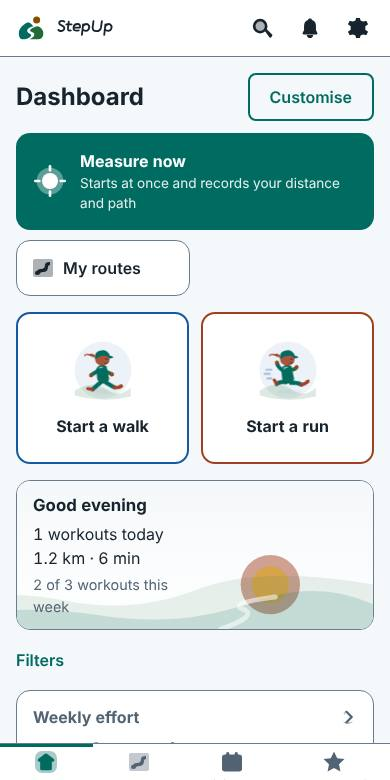
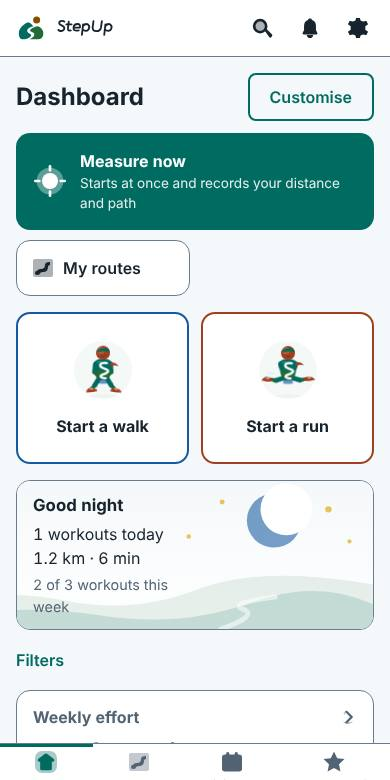
0.20.0: Trail athlete in the app and the guide, guide screenshots regenerated
Claude-Session: https://claude.ai/code/session_015MgUfxYvuaf2H4JGRA2gxD

diff --git a/web/sw.js b/web/sw.js
@@ -1,5 +1,5 @@
 // Offline-first service worker. VERSION is kept equal to version.json by scripts/bump-version.mjs (a unit test enforces it).
-const VERSION = '0.19.0';
+const VERSION = '0.20.0';
 const CACHE = `stepup-${VERSION}`;
 const SHELL = ['./', 'index.html', 'manifest.webmanifest', 'version.json', 'icon.svg', 'css/packs.css', 'css/app.css',
   'js/app.js', 'js/routePlan.js', 'js/planner.js', 'js/planApi.js', 'js/ui/mapScreen.js', 'js/ui/planner.js', 'js/theme-boot.js', 'js/util.js', 'js/i18n.js', 'js/native.js', 'js/icons.js', 'js/brand.js', 'js/brandData.js', 'js/iconData.js', 'js/geo.js', 'js/workout.js', 'js/metronome.js', 'js/cadence.js', 'js/audio.js', 'js/format.js', 'js/store.js', 'js/ui/home.js', 'js/plan.js', 'js/indicators.js', 'js/appVersion.js', 'js/art.js', 'js/voice.js', 'js/records.js', 'js/facts.js', 'js/actions.js', 'js/guide.js', 'js/strings08.js', 'js/strings09.js', 'js/figureData.js', 'js/ui/guide.js', 'art/workout/banner-afternoon-dark.svg', 'art/workout/banner-afternoon-light.svg', 'art/workout/banner-evening-dark.svg', 'art/workout/banner-evening-light.svg', 'art/workout/banner-morning-dark.svg', 'art/workout/banner-morning-light.svg', 'art/workout/banner-night-dark.svg', 'art/workout/banner-night-light.svg', 'art/workout/card-forest-dark.svg', 'art/workout/card-forest-light.svg', 'art/workout/card-ocean-dark.svg', 'art/workout/card-ocean-light.svg', 'art/workout/card-sunrise-dark.svg', 'art/workout/card-sunrise-light.svg', 'art/workout/count-1-dark.svg', 'art/workout/count-1-light.svg', 'art/workout/count-2-dark.svg', 'art/workout/count-2-light.svg', 'art/workout/count-3-dark.svg', 'art/workout/count-3-light.svg', 'art/workout/count-4-dark.svg', 'art/workout/count-4-light.svg', 'art/workout/count-5-dark.svg', 'art/workout/count-5-light.svg', 'art/workout/count-go-dark.svg', 'art/workout/count-go-light.svg', 'art/workout/hint-double-tap-dark.svg', 'art/workout/hint-double-tap-light.svg', 'art/workout/hint-volume-keys-dark.svg', 'art/workout/hint-volume-keys-light.svg', 'js/ui/workoutShare.js', 'js/shareCard.js', 'js/metrics.js', 'js/gpx.js', 'js/daypart.js', 'js/challenge.js', 'art/celebrate/avatar-frame-dark.svg', 'art/celebrate/avatar-frame-light.svg', 'art/celebrate/confetti-circle-dark.svg', 'art/celebrate/confetti-circle-light.svg', 'art/celebrate/confetti-curl-dark.svg', 'art/celebrate/confetti-curl-light.svg', 'art/celebrate/confetti-rectangle-dark.svg', 'art/celebrate/confetti-rectangle-light.svg', 'art/celebrate/confetti-star-dark.svg', 'art/celebrate/confetti-star-light.svg', 'art/celebrate/confetti-triangle-dark.svg', 'art/celebrate/confetti-triangle-light.svg', 'art/celebrate/distance-record-dark.svg', 'art/celebrate/distance-record-light.svg', 'art/celebrate/fastest-kilometre-dark.svg', 'art/celebrate/fastest-kilometre-light.svg', 'art/celebrate/forest-dark.svg', 'art/celebrate/forest-light.svg', 'art/celebrate/laurel-dark.svg', 'art/celebrate/laurel-light.svg', 'art/celebrate/longest-streak-dark.svg', 'art/celebrate/longest-streak-light.svg', 'art/celebrate/medal-dark.svg', 'art/celebrate/medal-light.svg', 'art/celebrate/most-workouts-week-dark.svg', 'art/celebrate/most-workouts-week-light.svg', 'art/celebrate/ocean-dark.svg', 'art/celebrate/ocean-light.svg', 'art/celebrate/pace-record-dark.svg', 'art/celebrate/pace-record-light.svg', 'art/celebrate/podium-floor-dark.svg', 'art/celebrate/podium-floor-light.svg', 'art/celebrate/podium-steps-dark.svg', 'art/celebrate/podium-steps-light.svg', 'art/celebrate/rays-dark.svg', 'art/celebrate/rays-light.svg', 'art/celebrate/ribbon-dark.svg', 'art/celebrate/ribbon-light.svg', 'art/celebrate/sunrise-dark.svg', 'art/celebrate/sunrise-light.svg', 'art/celebrate/trophy-dark.svg', 'art/celebrate/trophy-light.svg', 'js/podiumCard.js', 'js/ui/podium.js', 'js/mapView.js', 'js/ui/maptiles.js', 'js/backup.js', 'js/ui/backup.js', 'art/badges/almost-distance-dark.svg', 'art/badges/almost-distance-light.svg', 'art/badges/almost-record-dark.svg', 'art/badges/almost-record-light.svg', 'art/badges/faster-last-dark.svg', 'art/badges/faster-last-light.svg', 'art/badges/fastest-km-dark.svg', 'art/badges/fastest-km-light.svg', 'art/badges/new-record-dark.svg', 'art/badges/new-record-light.svg', 'art/badges/passed-distance-dark.svg', 'art/badges/passed-distance-light.svg', 'art/onboarding/caught-up-dark.svg', 'art/onboarding/caught-up-light.svg', 'art/onboarding/no-plan-dark.svg', 'art/onboarding/no-plan-light.svg', 'art/onboarding/no-routes-dark.svg', 'art/onboarding/no-routes-light.svg', 'art/onboarding/no-workouts-dark.svg', 'art/onboarding/no-workouts-light.svg', 'art/onboarding/offline-dark.svg', 'art/onboarding/offline-light.svg', 'art/onboarding/welcome-dark.svg', 'art/onboarding/welcome-light.svg', 'art/weather/clear-dark.svg', 'art/weather/clear-light.svg', 'art/weather/cloudy-dark.svg', 'art/weather/cloudy-light.svg', 'art/weather/cold-dark.svg', 'art/weather/cold-light.svg', 'art/weather/hot-dark.svg', 'art/weather/hot-light.svg', 'art/weather/rain-dark.svg', 'art/weather/rain-light.svg', 'art/weather/windy-dark.svg', 'art/weather/windy-light.svg', 'js/update.js', 'js/strings07.js', 'js/ui/about.js', 'js/strings06.js', 'js/ui/plan.js', 'js/schedule.js', 'js/widgetData.js', 'js/syncNative.js', 'js/strings05.js', 'js/route.js', 'js/routeReco.js', 'js/strings04.js', 'js/ui/routes.js', 'js/ui/livemap.js', 'js/forecast.js', 'js/reco.js', 'js/weatherApi.js', 'js/strings03.js', 'js/ui/reco.js', 'js/stats.js', 'js/steps.js', 'js/effort.js', 'js/reminders.js', 'js/alerts.js', 'js/search.js', 'js/charts.js', 'js/reminderLoop.js', 'js/strings02.js', 'js/ui/dashboard.js', 'js/ui/alerts.js', 'js/ui/search.js', 'js/ui/notify.js', 'js/ui/settings.js', 'js/ui/history.js', 'js/ui/workout.js', 'js/ui/rhythm.js',

diff --git a/web/js/appVersion.js b/web/js/appVersion.js
@@ -1,2 +1,2 @@
 // The version of the code that is running (kept equal to version.json by scripts/bump-version.mjs; a unit test enforces it).
-export const APP_VERSION = '0.19.0';
+export const APP_VERSION = '0.20.0';

diff --git a/docs/CONTEXT.md b/docs/CONTEXT.md
@@ -6,8 +6,8 @@ Read this first in a new session. It says what the product is, where everything 
 **StepUp** (repo `ohadsam/distance_analyzer`): a walking and running tracker. One vanilla-JS web app (`web/`, no build step, no runtime dependencies) shipped as a **PWA** (GitHub Pages) and as a thin **Android WebView app** (`android/`, same `web/` folder as assets). Hebrew (RTL) is the default, English is chosen in Settings. No server, no account; data stays on the device. Branch `main` is the primary branch.
 Owner's standing rules live in `.claude/skills/release-checklist/SKILL.md` (section 0). Requests and their status: `docs/REQUESTS.md`. Plan: `docs/ROADMAP.md`.
 
-## Status (0.19.0)
-Done: **redesigned single-colour icons, Trail (the logo-born companion character, 8 poses) on the start cards / welcome / summary, live speed gauge, active navigation icons, calm-animations switch (0.19.0)**, **user guide (interactive tour with screenshots), search over actions / your data / the guide, a clear live map, a quiet first-run home, map screen with distance measuring, route planner by address and distance (0.18.0)**, **workout visual kit: banners, workout cards, countdown numerals, hints, number icons (0.17.0)**, **choose your workout numbers, day card, history sort/records/GPX/share picture, hands-free, countdown, wide layout (0.16.0)**, **new minimal workout screen, background voice, stop hint, sunlight mode, weekly challenge + Sunday summary, kit podium (0.15.0)**, **opt-in street map, battery optimisation, record celebration with victory photo (0.14.0)**, **backup/restore, week-bars widget, monthly summary (0.13.0)**, **rhythm coach and charts in the kit's look, folded filters, spoken cues (0.12.0)**, **kit art integrated: empty states, weather banner, indication badges, widget backgrounds, Android 12 splash (0.11.0)**, **update check, newest-APK download and share from inside the app (0.10.0)**, **two more Android widgets (last workout, next session) with a designed background (0.9.1, launcher verification pending)**, **bottom navigation, collapsible settings, lighter first dashboard, welcome card (0.9.0)**, **live in-workout indications (records, last time, faster km - 0.8.1)**, **training plans (build, week view, auto-match, gentle catch-up, reminders - 0.8.1)**, Android home-screen widgets (steps, weekly effort, measure now - 0.7.0, launcher verification pending)**, Android background (screen-off tracking, all-day steps, notifications when closed - 0.6.0, real-device verification pending)**, quick actions, routes (save, recognise, progress, suggestions, one-time, follow with ghost), tile-less live map (0.5.0)**, recommendations by weather and routine (0.4.0, opt-in network)**, workout mode (GPS distance/pace/splits, pause, lock, resume), smart rhythm coach (metronome + breathing guide), history, design foundation + StepUp brand, effort bar by age and history with deviation alerts, quality-weighted steps, dashboard (customisable widgets, filters, drill-down), alerts inbox, global search, reminders (fixed + smart nudges, while the app is open), manual weather per workout with weather-aware stats.
+## Status (0.20.0)
+Done: **Trail as an athlete (kit V3) on the start cards, welcome, summary and the user guide (0.20.0)**, **redesigned single-colour icons, Trail (the logo-born companion character, 8 poses) on the start cards / welcome / summary, live speed gauge, active navigation icons, calm-animations switch (0.19.0)**, **user guide (interactive tour with screenshots), search over actions / your data / the guide, a clear live map, a quiet first-run home, map screen with distance measuring, route planner by address and distance (0.18.0)**, **workout visual kit: banners, workout cards, countdown numerals, hints, number icons (0.17.0)**, **choose your workout numbers, day card, history sort/records/GPX/share picture, hands-free, countdown, wide layout (0.16.0)**, **new minimal workout screen, background voice, stop hint, sunlight mode, weekly challenge + Sunday summary, kit podium (0.15.0)**, **opt-in street map, battery optimisation, record celebration with victory photo (0.14.0)**, **backup/restore, week-bars widget, monthly summary (0.13.0)**, **rhythm coach and charts in the kit's look, folded filters, spoken cues (0.12.0)**, **kit art integrated: empty states, weather banner, indication badges, widget backgrounds, Android 12 splash (0.11.0)**, **update check, newest-APK download and share from inside the app (0.10.0)**, **two more Android widgets (last workout, next session) with a designed background (0.9.1, launcher verification pending)**, **bottom navigation, collapsible settings, lighter first dashboard, welcome card (0.9.0)**, **live in-workout indications (records, last time, faster km - 0.8.1)**, **training plans (build, week view, auto-match, gentle catch-up, reminders - 0.8.1)**, Android home-screen widgets (steps, weekly effort, measure now - 0.7.0, launcher verification pending)**, Android background (screen-off tracking, all-day steps, notifications when closed - 0.6.0, real-device verification pending)**, quick actions, routes (save, recognise, progress, suggestions, one-time, follow with ghost), tile-less live map (0.5.0)**, recommendations by weather and routine (0.4.0, opt-in network)**, workout mode (GPS distance/pace/splits, pause, lock, resume), smart rhythm coach (metronome + breathing guide), history, design foundation + StepUp brand, effort bar by age and history with deviation alerts, quality-weighted steps, dashboard (customisable widgets, filters, drill-down), alerts inbox, global search, reminders (fixed + smart nudges, while the app is open), manual weather per workout with weather-aware stats.
 Not done / known limits: the smart "no movement" nudge works only while the app is open; Android background features are verified only by a stand-in bridge and CI; internet is used only on request: the weather forecast (opt-in, Open-Meteo), update check (GitHub), map tiles (opt-in, OpenStreetMap) and the route planner (opt-in, four public services) - its live answer is unverified (sandbox blocks the host); automatic weather *per workout* (history) is still not built; the route planner's live answers (Nominatim, FOSSGIS OSRM, Open-Meteo elevation, Overpass) are only verified against stand-ins because the sandbox blocks those hosts, and its crossing / sidewalk reading depends on how well OpenStreetMap is mapped where you are; Kotlin is only compiled in CI; sensor thresholds are tuned on synthetic data, not a real run; steps are estimated from tracked workouts (no passive counter yet).
 
 ## How to run and verify

diff --git a/docs/CHANGELOG.md b/docs/CHANGELOG.md
@@ -1,5 +1,11 @@
 # Changelog
 
+## 0.20.0
+- **Trail is now an athlete** (round 9c, `design/stepup/round9/`, "Athlete V3"): a sports jersey with the StepUp mark, shorts, running shoes and a sun headband, eight poses (idle, walk, run, finish, rest, wave, focus, ready) with the walk (1.2 s) and run (0.7 s) cycles from the kit's motion CSS. She replaces the first Trail on the start cards, the welcome card and the workout summary.
+- **Trail in the user guide**: she waves on the guide's front page and talks you through every step (wave on the first, finish on the last, idle / focus between). The guide's 20 screenshots (Hebrew and English) were regenerated from this version of the app, including the map and the route planner (`GUIDE_DIR=web/art/guide node tests/e2e/journey.mjs`).
+- Known flaws of the kit, requested again in `docs/prompts/ROUND9C_PROMPT.md`: the head should be the logo's amber sun (it is brown), the logo on the jersey should be the S-trail gap between two hills (it reads as a white squiggle), the run pose needs a real stride, and the scenes (time of day, empty states, weather, celebration, countdown, share card) are still missing.
+- Verified: unit tests (the eight poses exist in light and dark, safe drawing elements), the full e2e (characters move, calm stops them, the guide walks through all 20 steps), the Hebrew and English journeys, axe. Not verified on a device.
+
 ## 0.19.0
 - **Redesigned icons**: every UI icon is redrawn (single colour, two-tone layers, rounded, a small signature) from the ChatGPT round-8b kit (`design/stepup/round8/`, icons in `design/stepup/svg/`); 80 icons incl. the active navigation variants, the `-start/-end` pairs and the speed / pace gauge glyphs. They still follow the style pack (currentColor).
 - **Trail, the companion character** (round 9, `design/stepup/round9/`): a logo-born character with eight poses (idle, walk, run, cheer, rest, wave, focus, finish). It is on the start cards (walk / run), the welcome card (wave) and the workout summary (finish) (`figure()` in `icons.js`, drawn inline from generated data so the CSS can move its parts; the kit's inline `style` poses are converted to transform attributes at build time because the CSP blocks style attributes). The rest of the places a person is shown (scenes for the time of day, empty states, weather, celebration, countdown...) are requested in `docs/prompts/ROUND9B_PROMPT.md`.
